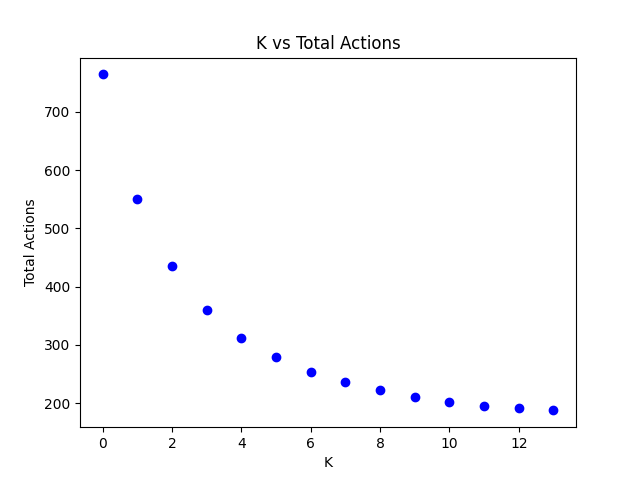
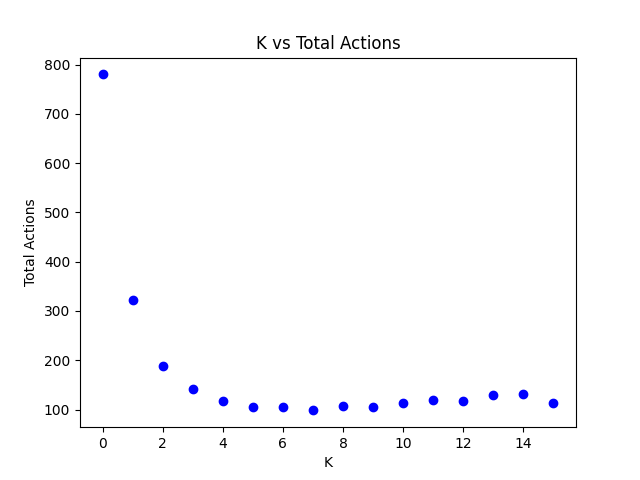
good again

diff --git a/LeakBot2.py b/LeakBot2.py
@@ -8,8 +8,8 @@ import numpy as np
 import matplotlib.pyplot as plt
 
 WIDTH = 800
-WIN = pygame.display.set_mode((WIDTH, WIDTH))
-pygame.display.set_caption("Leak Finding Algorithm")
+# WIN = pygame.display.set_mode((WIDTH, WIDTH))
+# pygame.display.set_caption("Leak Finding Algorithm")
 
 RED = (255, 0, 0)
 GREEN = (0, 255, 0)
@@ -174,7 +174,7 @@ def reconstruct_path(came_from, current, draw):
         hi += 1
         current = came_from[current]
         current.make_path()
-        draw()
+        # draw()
     return hi
 
 # Manhattan distance from point to end
@@ -204,9 +204,9 @@ def algorithm(draw, grid, start, end):
     open_set_hash = {start}
 
     while not open_set.empty():
-        for event in pygame.event.get():
-            if event.type == pygame.QUIT:
-                pygame.quit()
+        # for event in pygame.event.get():
+        #     if event.type == pygame.QUIT:
+        #         pygame.quit()
 
         current = open_set.get()[2]
         open_set_hash.remove(current)
@@ -339,7 +339,8 @@ def make_ship(draw, grid, rows, square):
                 detection_square_spots.add(grid[x+i][y+j])
 
     try:
-        random_leak = random.choice(list(white - detection_square_spots - {random_bot}))
+        random_leak = random.choice(
+            list(white - detection_square_spots - {random_bot}))
     except:
         random_leak = random.choice(list(white - {random_bot}))
     random_leak.make_end()
@@ -370,7 +371,7 @@ def infinity():
     return float('inf')
 
 
-def Bot1(win, width, ROWS, square):
+def Bot2(width, ROWS, square):
     square = (square * 2)+1
 
     def check_square(spot, leak, square):
@@ -436,10 +437,10 @@ def Bot1(win, width, ROWS, square):
             for spot in row:
                 spot.update_neighbors(grid)
                 spot.update_unres_neighbors(grid)
-        draw(win, grid, ROWS, width)
-        for event in pygame.event.get():
-            if event.type == pygame.QUIT:
-                run = False
+        # draw(win, grid, ROWS, width)
+        # for event in pygame.event.get():
+        #     if event.type == pygame.QUIT:
+        #         run = False
 
         # Runs until the bot ends up at the leak
         while (start.get_pos() != random_leak.get_pos()):
@@ -490,7 +491,7 @@ def Bot1(win, width, ROWS, square):
 
             if (not (best_location is None)):
                 next_location = best_location
-            pygame.time.delay(1000)
+            # pygame.time.delay(1000)
             may_contain_leak.remove(next_location)
             next_location.make_color(BROWN)
             distance = dists[next_location.get_pos()]
@@ -506,17 +507,52 @@ def Bot1(win, width, ROWS, square):
             # for cell in det_square:
             #     cell.make_color(GREY)
 
-            draw(win, grid, ROWS, width)
+            # draw(win, grid, ROWS, width)
 
-    pygame.quit()
+    # pygame.quit()
     return total_actions
 
 
-def main(win, width):
-    ROWS = 10
-    # make them return FAILED OR SUCCEEDED, ALSO PASS IN Q
-    actions = Bot1(win, width,  ROWS, 1)
-    print(actions)
+def main(width):
+    WIDTH = 800
+    # WIN = pygame.display.set_mode((WIDTH, WIDTH))
+    # pygame.display.set_caption("Leak Finding Algorithm")
+    ROWS = 30
+    total_actions = 0
+    count = 0
+    success = {}
+    for k in range(16):
+        total_actions = 0
+        count = 0
+        for i in range(150):
+            try:
+                total_actions += Bot2(width,  ROWS, k)
+            except Exception as e:
+                print(f"Error in execution for alpha={k}: {e}", flush=True)
+                traceback.print_exc()
+                print("SKLDJFHLSDFH", flush=True)
+                # return 0
+                count -= 1
+            count += 1
+            print(count, flush=True)
+        # pygame.quit()
+        print("FINISHED", k, flush=True)
+        gc.collect()
+        success[k] = total_actions/(count)
+
+    k, total_actions = zip(*sorted(success.items()))
+
+    # Convert to NumPy arrays
+    k = np.array(k)
+    total_actions = np.array(total_actions)
+
+    # Create the plot
+    plt.scatter(k, total_actions, marker='o', linestyle='-', color='b')
+    plt.title('K vs Total Actions')
+    plt.xlabel('K')
+    plt.ylabel('Total Actions')
+    plt.grid(False)
+    plt.savefig('bot_2.png')
 
 
-main(WIN, WIDTH)
+main(WIDTH)

diff --git a/LeakBot1.py b/LeakBot1.py
@@ -507,10 +507,11 @@ def main(width):
     # WIN = pygame.display.set_mode((WIDTH, WIDTH))
     # pygame.display.set_caption("Leak Finding Algorithm")
     ROWS = 30
-    total_actions = 0
-    count = 0
+
     success = {}
-    for k in range(14):
+    for k in range(16):
+        total_actions = 0
+        count = 0
         for i in range(150):
             try:
                 total_actions += Bot1(width,  ROWS, k)
